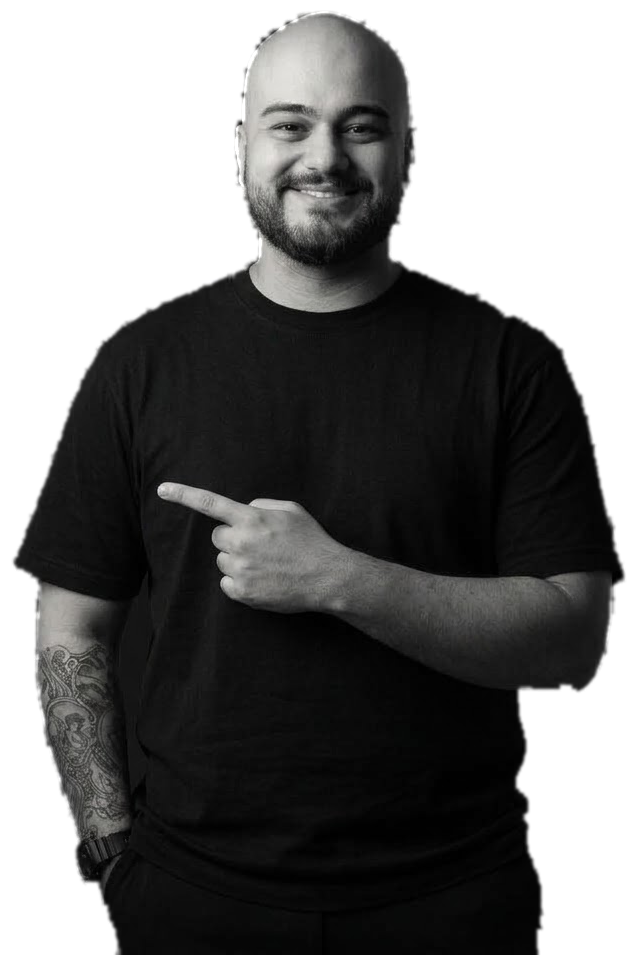
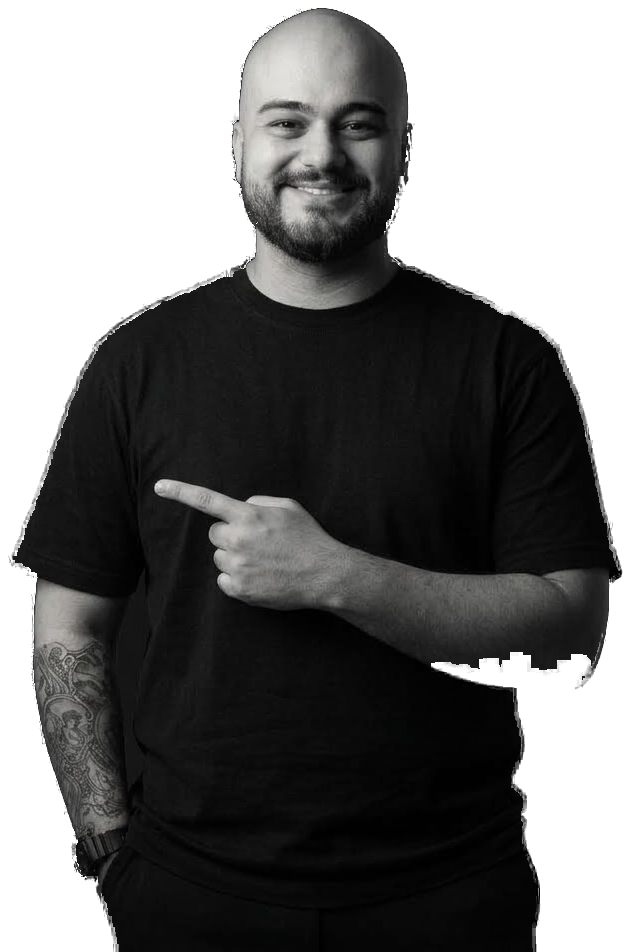
Recut the portrait so it holds up on a light ground
The old matte thresholded luminance and kept whatever the flood fill
touched, which makes every pixel either in or out: hair becomes a
staircase and any backdrop pixel a shade outside the window survives as a
speck. Invisible on the dark site, ugly on milk.

Recut from the original file, separating the two questions the job
actually asks. Connectivity decides which side a pixel is on, so the black
shirt is safe however close its value sits to the backdrop's. Distance
from the backdrop value decides how much of a pixel is covered, but only
within a few pixels of the boundary, where that question is real — and on
the absolute difference, since the shirt is darker than the backdrop and
the skin lighter and both are equally not-backdrop. Edge colours are
un-composited so no trace of the backdrop remains in them either.

The flood is deliberately tight. A looser one walks through the outline
where the shirt and the backdrop meet in value and eats holes out of the
clothing — which it did, on the first attempt at this.

The light card no longer needs the dark panel it was hiding behind: the
cutout now sits on milk as it should. 552 specks gone, one region kept.

diff --git a/src/components/visual-resume.tsx b/src/components/visual-resume.tsx
@@ -122,19 +122,6 @@ const STYLES = `
   --wash-3: rgba(205, 226, 248, 0.75);
 }
 
-/*
- * On milk the photo sits on its own dark ground rather than on the card.
- *
- * The portrait is a cutout, and its matte was built by thresholding a studio
- * backdrop: good enough to be invisible against the dark site, but stepped
- * around the hair, which milk shows up mercilessly. Putting the ground back
- * under it makes it a photograph in a frame instead of a shape cut out badly,
- * and the fade at the mid-leg crop has something to fade into again.
- */
-.vr.is-light .vr-photo-wrap {
-  background: #17181c;
-  padding: 3mm 2.5mm 0;
-}
 
 .vr * { box-sizing: border-box; }
 .vr p { margin: 0; }
